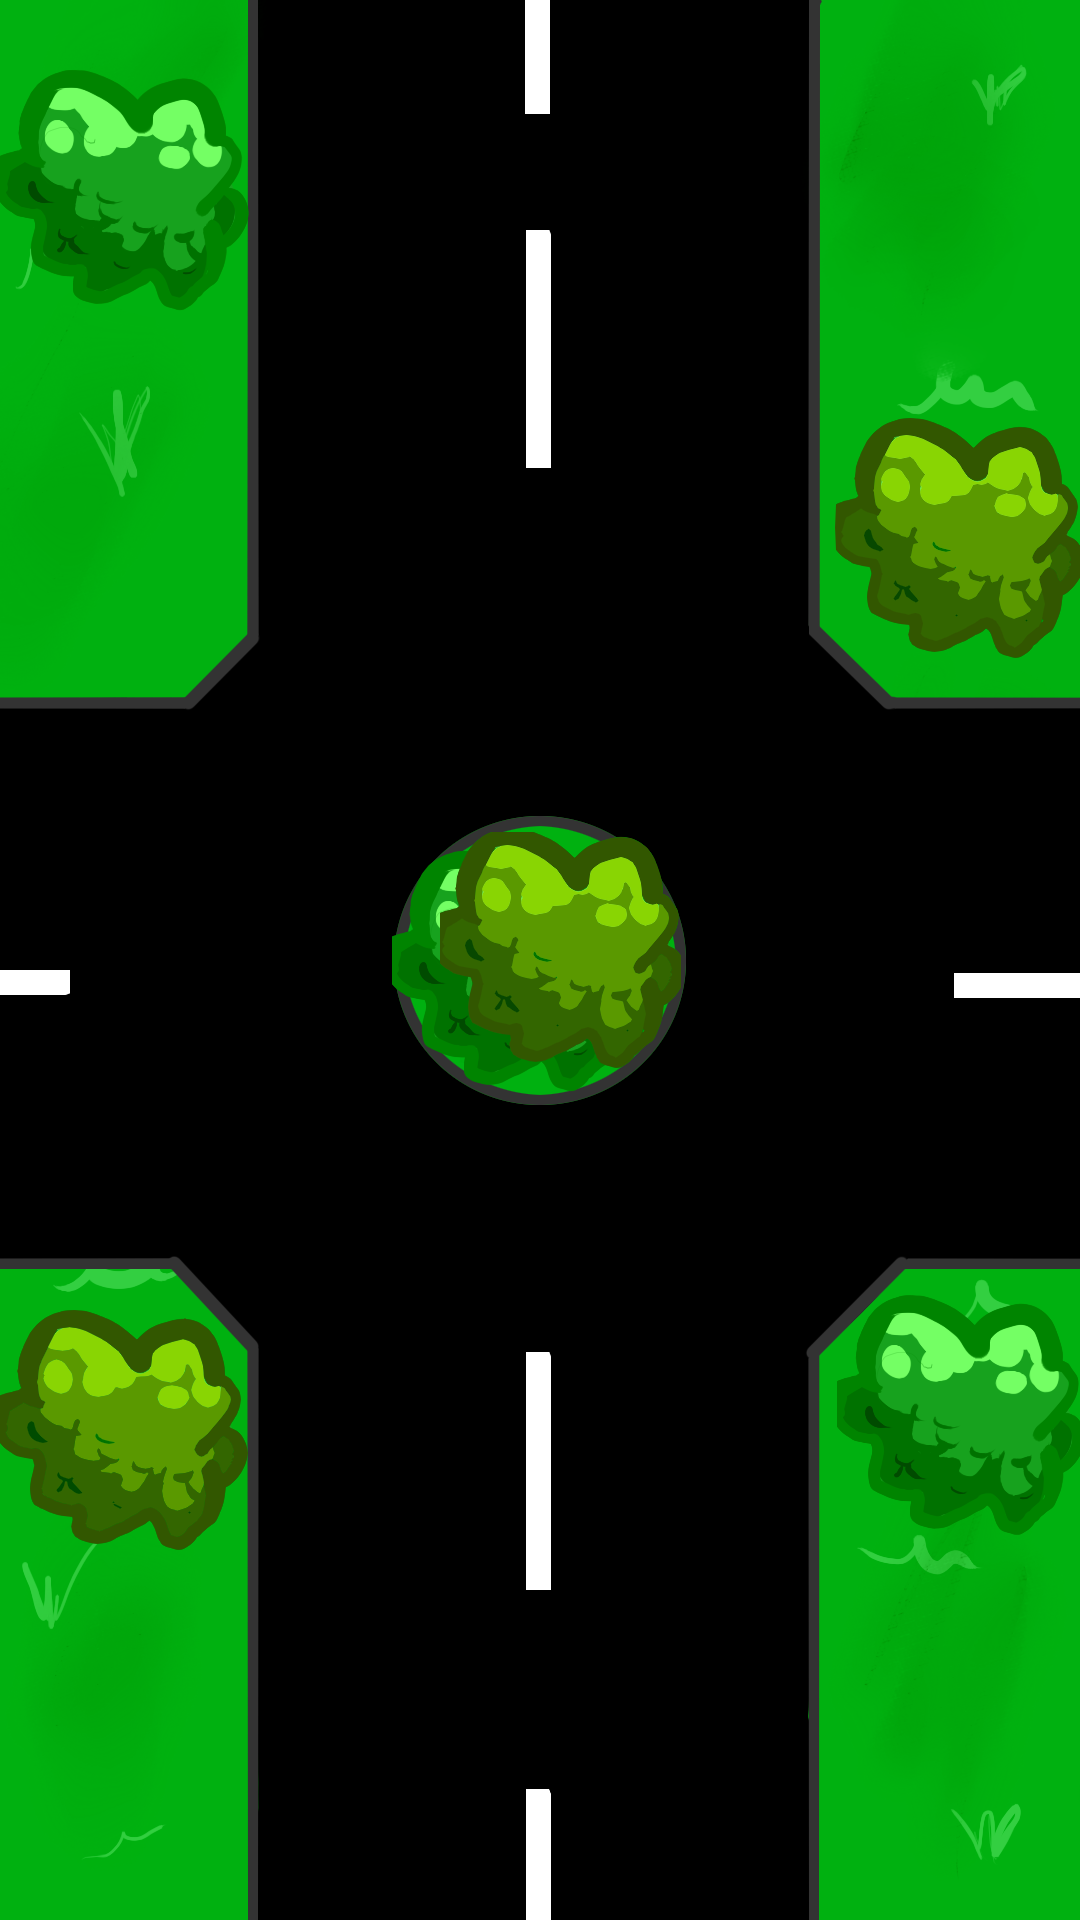
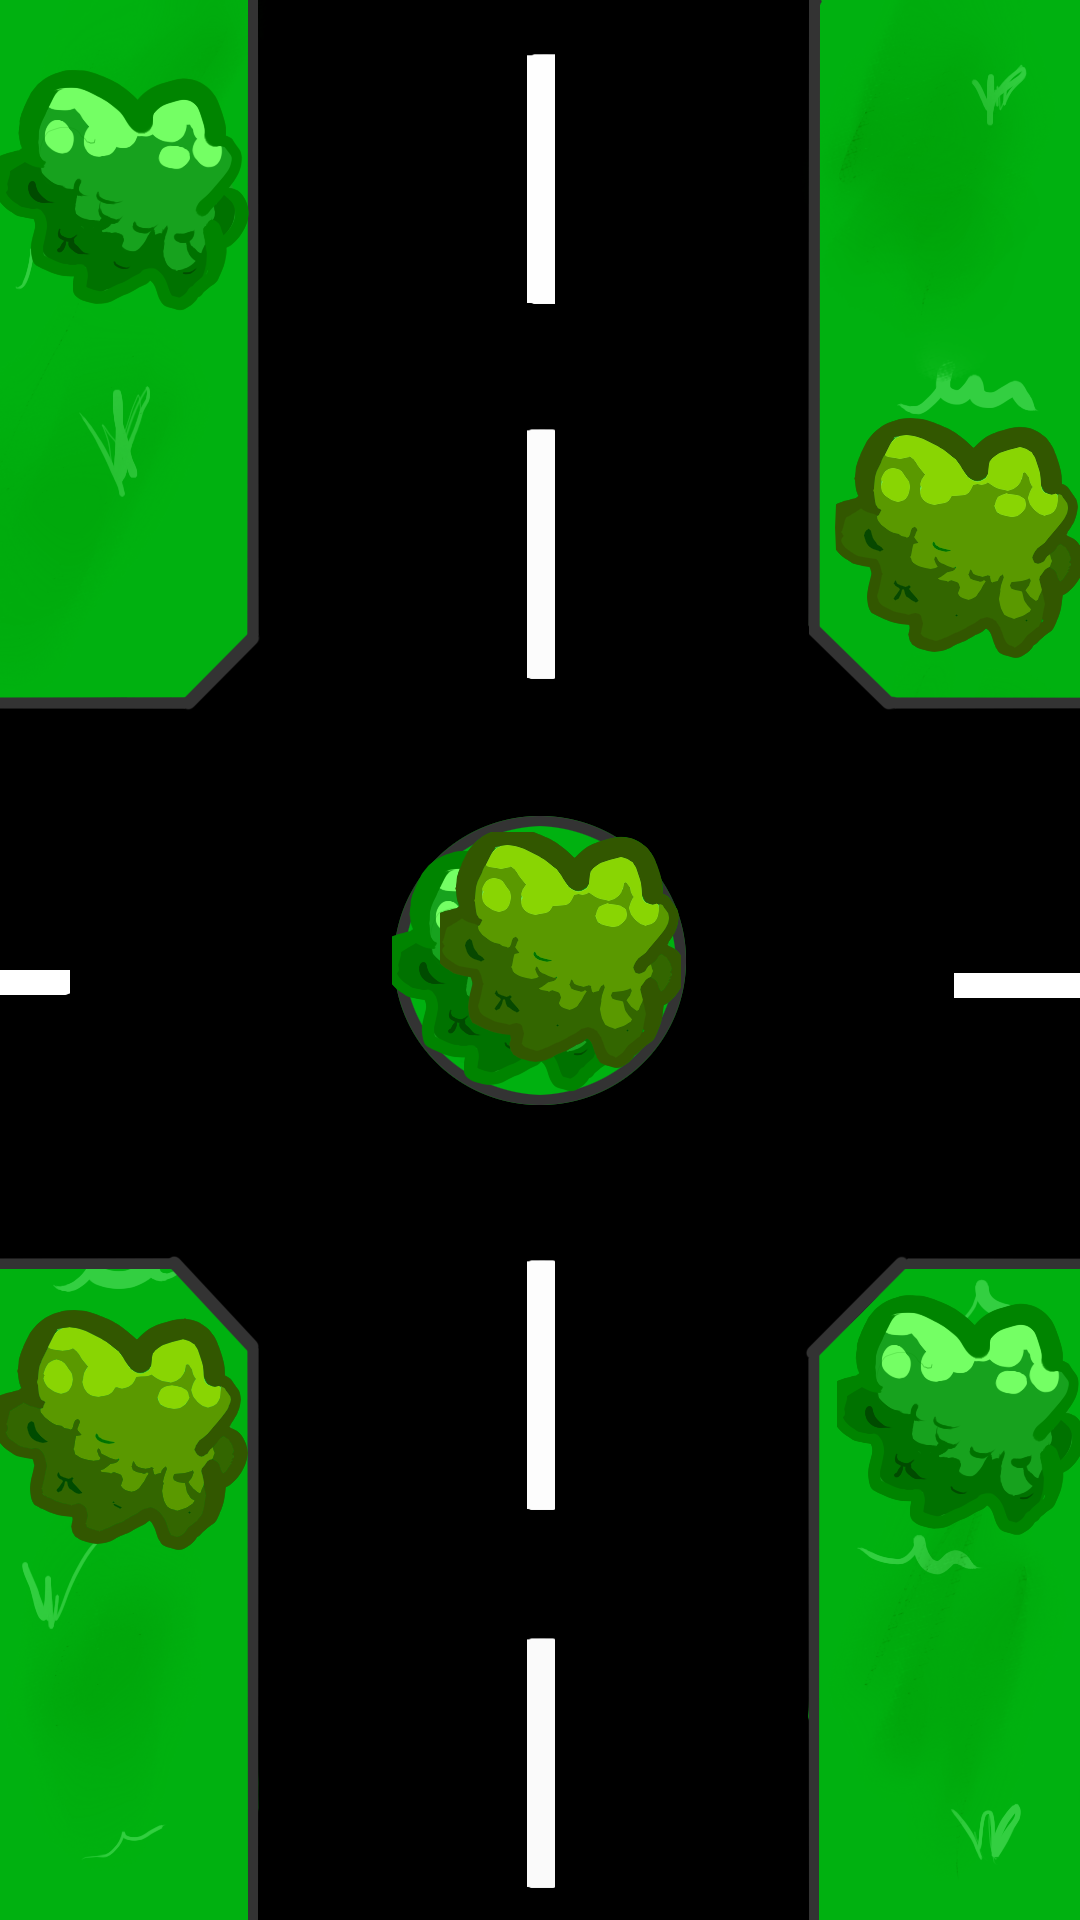
River út, meg az új textúrák cseréje.

Changed region(s): [[0.4889, 0.0, 0.5194, 0.375], [0.4889, 0.6562, 0.5194, 1.0]]

diff --git a/core/src/com/faszallitok/harmadik/Screens/Game/GameStage.java b/core/src/com/faszallitok/harmadik/Screens/Game/GameStage.java
@@ -25,6 +25,7 @@ import com.faszallitok.harmadik.Screens.Game.Roads.RoadCircle;
 import com.faszallitok.harmadik.Screens.Game.Roads.RoadCross;
 import com.faszallitok.harmadik.Screens.Game.Roads.RoadLeft;
 import com.faszallitok.harmadik.Screens.Game.Roads.RoadRight;
+import com.faszallitok.harmadik.Screens.Game.Roads.RoadRiver;
 import com.faszallitok.harmadik.Screens.Game.Roads.RoadStraight;
 import com.faszallitok.harmadik.Screens.Menu.MenuScreen;
 
@@ -90,13 +91,15 @@ public class GameStage extends MyStage {
     }
 
     Road getRandomRoad() {
-        int randNum = randomInt(1, 6); //3 típusú út.
+        int randNum = randomInt(1, 7); //3 típusú út.
         //randNum = 1;
         if(randNum == 1)        return new RoadStraight();
         else if (randNum == 2)  return new RoadCross();
         else if (randNum == 3)  return new RoadCircle();
         else if (randNum == 4)  return new RoadLeft();
         else if (randNum == 5)  return new RoadRight();
+        else if (randNum == 6)  return new RoadRiver();
+
 
 
         return new RoadStraight();

diff --git a/core/src/com/faszallitok/harmadik/GlobalClasses/Assets.java b/core/src/com/faszallitok/harmadik/GlobalClasses/Assets.java
@@ -56,6 +56,7 @@ public class Assets {
 
 	//Roads
 	public static final AssetDescriptor<Texture> ROAD_STRAIGHT = new AssetDescriptor<Texture>("roads/straight.png", Texture.class);
+	public static final AssetDescriptor<Texture> ROAD_RIVER = new AssetDescriptor<Texture>("roads/river.png", Texture.class);
 	public static final AssetDescriptor<Texture> ROAD_CROSS = new AssetDescriptor<Texture>("roads/cross.png", Texture.class);
 	public static final AssetDescriptor<Texture> ROAD_CIRCLE = new AssetDescriptor<Texture>("roads/circle.png", Texture.class);
 	public static final AssetDescriptor<Texture> ROAD_LEFT = new AssetDescriptor<Texture>("roads/left.png", Texture.class);
@@ -122,6 +123,7 @@ public class Assets {
 		manager.load(GAR_TOP);
 
 		manager.load(ROAD_STRAIGHT);
+		manager.load(ROAD_RIVER);
 		manager.load(ROAD_CROSS);
 		manager.load(ROAD_CIRCLE);
 		manager.load(ROAD_LEFT);

diff --git a/core/src/com/faszallitok/harmadik/Screens/Game/Roads/RoadStraight.java b/core/src/com/faszallitok/harmadik/Screens/Game/Roads/RoadStraight.java
@@ -27,7 +27,7 @@ public class RoadStraight extends Road {
     protected void positionChanged() {
         super.positionChanged();
 
-        if(randomInt(0, 101) > 50){
+        if(randomInt(0, 101) < 75){
             OneSpriteStaticActor otherCar = new OneSpriteStaticActor(Assets.manager.get(GameStage.getRandomCarSkin()));
             otherCar.setSize(otherCar.getWidth() / 3, otherCar.getHeight() / 3);
             //addCollisionShape("othercar", new MyRectangle(otherCar.getWidth() - 60, otherCar.getHeight() - 60, 30, 30));

diff --git a/core/src/com/faszallitok/harmadik/Screens/Game/Roads/RoadRiver.java b/core/src/com/faszallitok/harmadik/Screens/Game/Roads/RoadRiver.java
@@ -1,0 +1,9 @@
+package com.faszallitok.harmadik.Screens.Game.Roads;
+
+import com.faszallitok.harmadik.GlobalClasses.Assets;
+
+public class RoadRiver extends RoadStraight {
+    public RoadRiver() {
+        setTexture(Assets.manager.get(Assets.ROAD_RIVER));
+    }
+}

diff --git a/core/src/com/faszallitok/harmadik/Screens/Game/Roads/Road.java b/core/src/com/faszallitok/harmadik/Screens/Game/Roads/Road.java
@@ -6,6 +6,6 @@ import com.faszallitok.harmadik.MyBaseClasses.Scene2D.OneSpriteStaticActor;
 public class Road extends OneSpriteStaticActor {
     public Road(Texture texture) {
         super(texture);
-        setDebug(true);
+        //setDebug(true);
     }
 }
